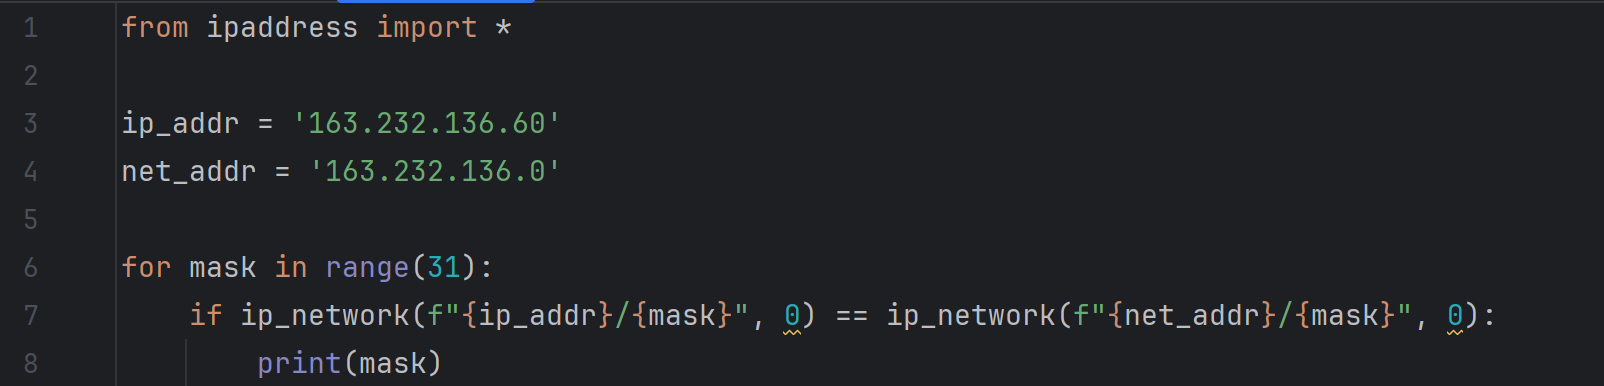
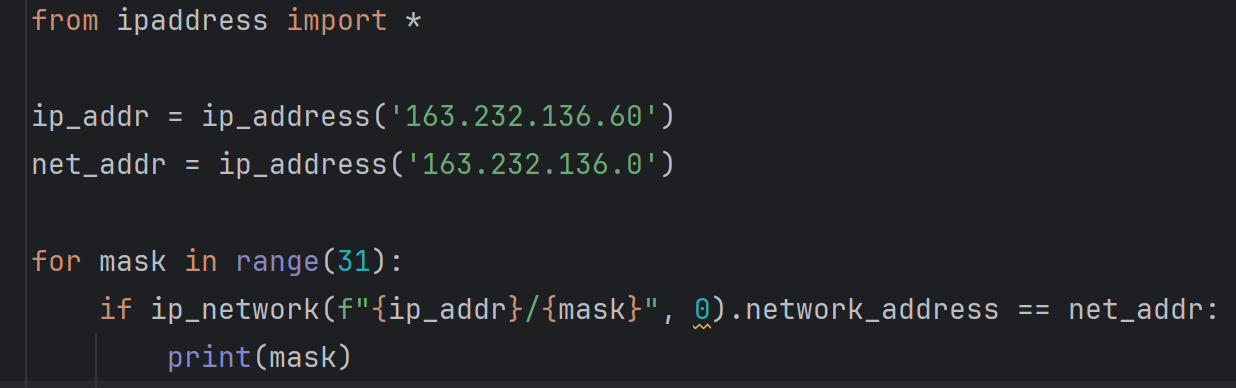
v

diff --git a/ege/informatics/13.md b/ege/informatics/13.md
@@ -69,15 +69,15 @@
 ![](./source/9p.png)
 ### Комментарий
 `from ipaddress import *`: импортим всё из библиотеки  
-`ip_addr = '163.232.136.60'`
-`net_addr = '163.232.136.0'`: задаем переменные с адресом узла и адресом сети  
+`ip_addr = ip_address('163.232.136.60')`  
+`net_addr = ip_address('163.232.136.0')`: задаем переменные с адресом узла и адресом сети  
 `for mask in range(31):`: почему мы перебираем маску среди чисел 0...30?  
 Раньше мы с вами использовали такой формат: `ip_network('136.36.240.16/255.255.255.248', 0)`, то есть маску писали через 4 числа - 255.255.255.248.  
 Давайте вспомним, что маска в двочном виде - это сначала идущие подряд единицы, а потом идущие подряд нули, по типу: 1111111111111111110000000000000  
 так вот, в `for mask in range(31):` mask - это число единиц в маске (обычно в маске не используется 31 и 32 единицы, поэтому перебираем среди 0...30)  
 теперь, когда мы используем `ip_network(f"{ip_addr}/{mask}", 0)`, ip_addr - это так же адрес из 4 чисел, а mask - это кол-во единиц в маске (то есть какая то реально существующая маска).  
-`if ip_network(f"{ip_addr}/{mask}", 0) == ip_network(f"{net_addr}/{mask}", 0):`:  
-тут мы проверяем, что сеть, которую мы получили из адреса узла и маски равна сети, которую мы получили из адреса сети и маски.  
+`if ip_network(f"{ip_addr}/{mask}", 0).network_address == net_addr:`:  
+тут мы проверяем, что адрес сети (`ip_network(f"{ip_addr}/{mask}", 0).network_address`), которую мы получили из адреса узла и маски равна адресу сети из условия задачи. 
 Если они равны, то такая маска действительно может быть для данного адреса сети и адреса узла.
 `print(mask)`: - тут выводим число единиц в маске, и по условию задачи ищем наибольшее возможное число  
 ### Ответ

diff --git a/ege/informatics/22.md b/ege/informatics/22.md
@@ -6,4 +6,5 @@
 Файл 22_1
 ![](./source/22_1z.png)
 ### Решение
-[Видео](./source/22_1.mp4)
+[Видеоразбор](./source/22_1.mp4)  
+*Текстовый добавлю когда-нибудь, пока что лень*
